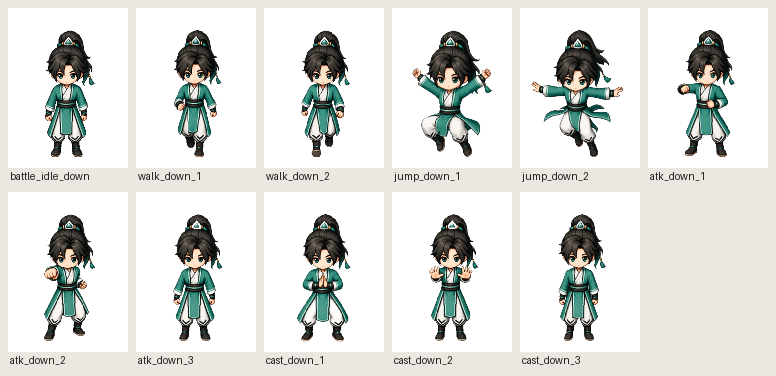
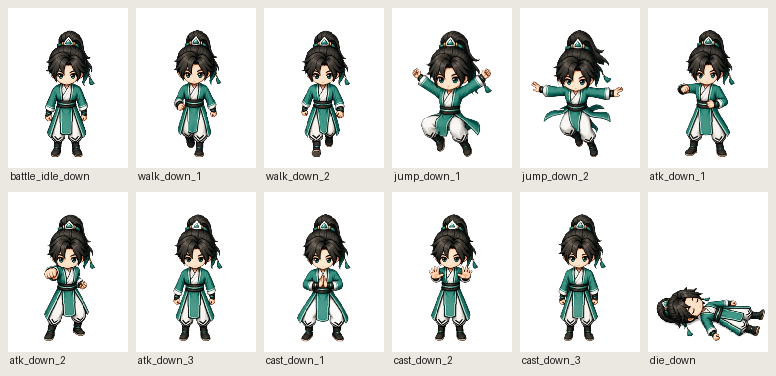
T45 批1 闭环: die_down 按横躺口径入库, 12/12 齐
- die_down.png: Leo 09-04 裁决口径(按宽适配: 包络宽 220/底边贴 y=300/质心 x=120)
  零成本归一(复用已存档 cut), 终检 env 218x110 bottom=299 centroid_x=119.53
- run_frame.py: 横躺 norm=wide 分支固化(批 2b/3b 死亡帧复用)
- contact_sheet_batch1.png 重出 12/12
- measure_log: _blocker_die_normalize 已.resolution 关闭, die_down 记录补 norm_ruling
- 积分不变: 本批 24 分/12 张(归一零 AI)

Changed region(s): [[0.8351, 0.4973, 0.9897, 0.9654]]

diff --git a/assets/_trial_20260904/t45_batch1/run_frame.py b/assets/_trial_20260904/t45_batch1/run_frame.py
@@ -41,7 +41,7 @@ FRAMES = {
     "cast_down_2": {"pose": "施放释放：双掌向前推出、掌心朝前", "gate": "height"},
     "cast_down_3": {"pose": "施放收招：双掌收回、身体回正", "gate": "aspect"},
     "die_down":    {"pose": "死亡躺平：仰面躺平于地面、四肢自然舒展、闭眼", "gate": "none",
-                    "append": "躺平于地面，人物横置。"},
+                    "norm": "wide", "append": "躺平于地面，人物横置。"},
 }
 
 WHITE_THRESH = 40   # 与纯白欧氏距离阈值（主体掩码）
@@ -359,7 +359,8 @@ def stage_finish(name):
         log_write(rec)
         print(f"[STOP] {name} 抠图两次失败，登记跳过"); sys.exit(3)
 
-    # 归一 240×320：包络高 256、底边 y=300、质心 x=120（口径=锚实测：alpha>0 包络、质量质心）
+    # 归一 240×320：直立帧=包络高 256；横躺帧（Leo 09-04 裁决）=按宽适配包络宽 220（≤220）、
+    # 底边贴 y=300、质心 x=120，高随比例自然。口径=锚实测：alpha>0 包络、质量质心。
     cimg = Image.open(cut).convert("RGBA")
     a = cimg.getchannel("A")
     bbox = a.point(lambda v: 255 if v > 0 else 0).getbbox()
@@ -367,12 +368,13 @@ def stage_finish(name):
         rec["result"] = "SKIP"; rec["reason"] = "抠图结果全透明"; log_write(rec)
         print("[STOP] 抠图全透明"); sys.exit(3)
     ew, eh = bbox[2] - bbox[0], bbox[3] - bbox[1]
-    s = 256.0 / eh
+    wide = spec.get("norm") == "wide"
+    s = (220.0 / ew) if wide else (256.0 / eh)
     nw, nh = round(ew * s), round(eh * s)
-    print(f"[norm] cut_env={ew}x{eh} scale={s:.4f} -> {nw}x{nh}")
-    if nw > 240:
+    print(f"[norm] cut_env={ew}x{eh} scale={s:.4f} -> {nw}x{nh}" + ("（横躺宽适配口径）" if wide else ""))
+    if nw > 240 or nh > 320:
         rec["result"] = "SKIP"
-        rec["reason"] = f"归一溢出：包络高 256 需宽 {nw} > 240（横躺帧口径卡点，报 Leo）"
+        rec["reason"] = f"归一溢出：适配后 {nw}x{nh} 超出 240x320 画布（报 Leo）"
         rec["cut_env"] = [ew, eh]
         log_write(rec)
         print(f"[STOP] {name} {rec['reason']}"); sys.exit(4)
